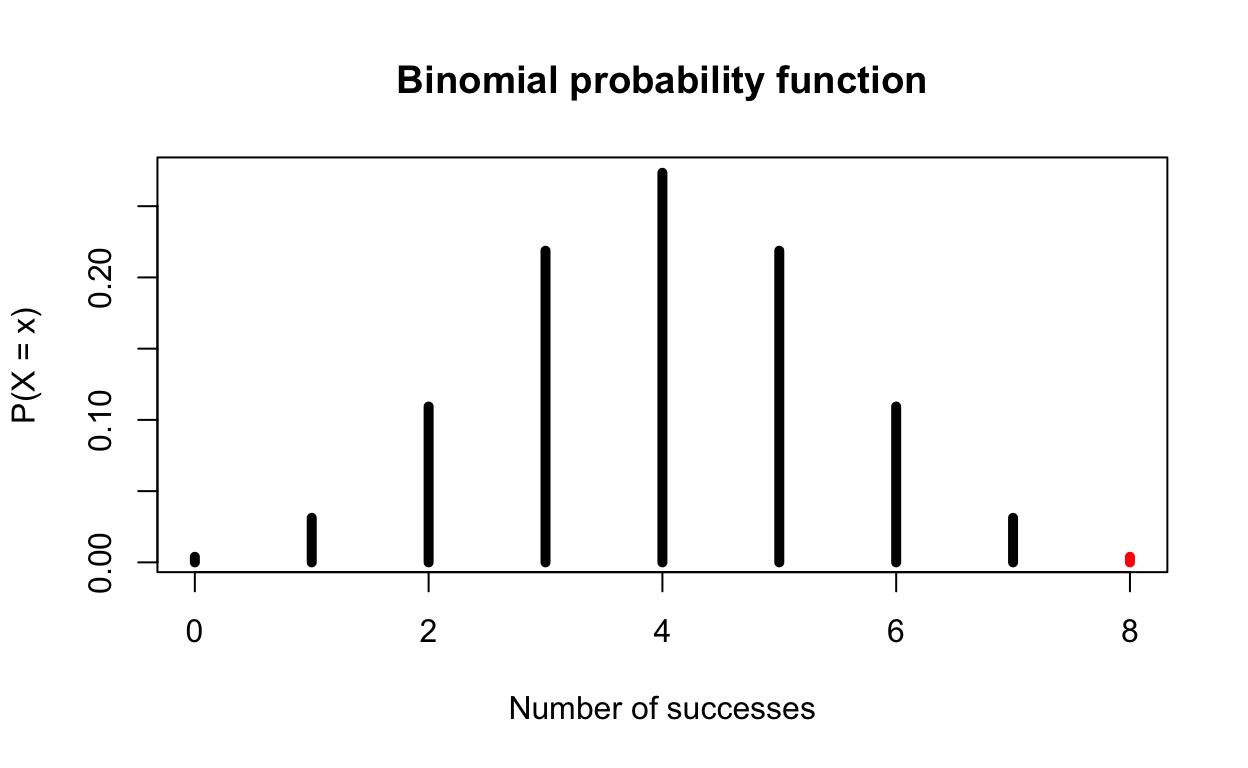
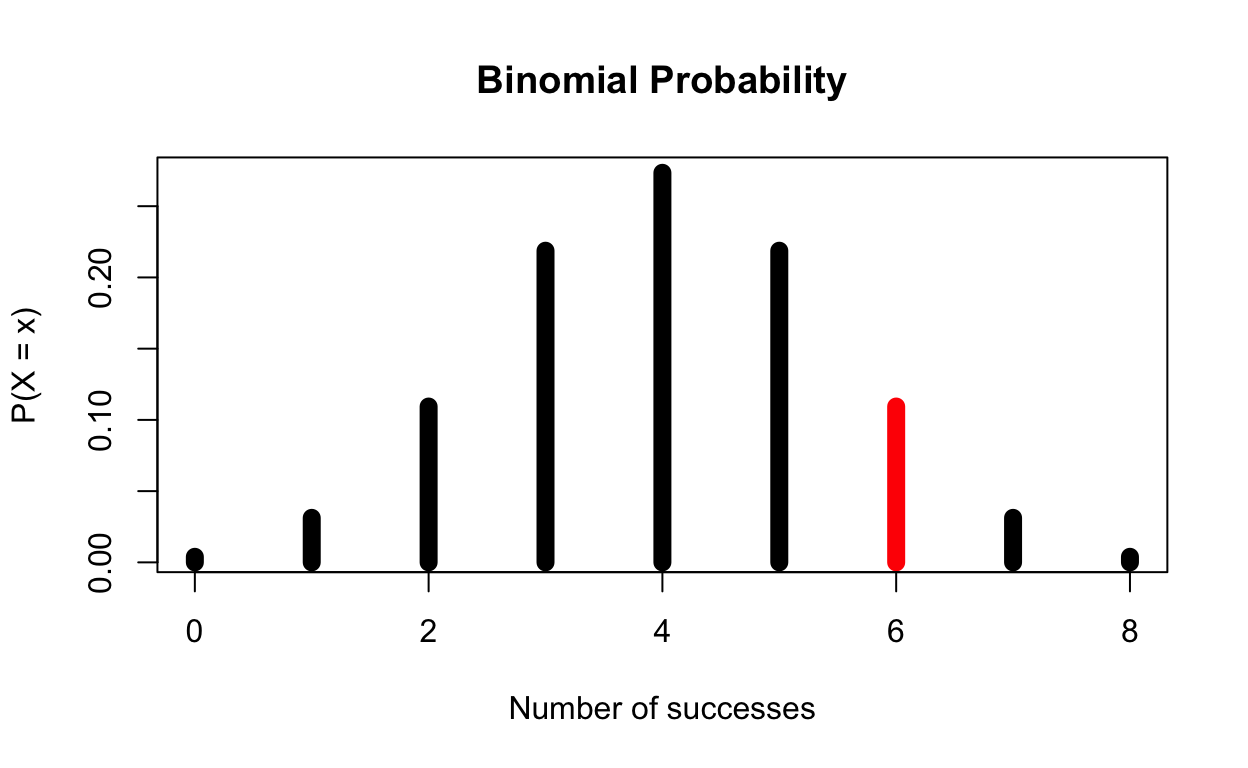
tea-tasting

diff --git a/_posts/Tea_Tasting/teatasting.html b/_posts/Tea_Tasting/teatasting.html
@@ -114,7 +114,7 @@ code span.wa { color: #5e5e5e; font-style: italic; } /* Warning */
   <!--/radix_placeholder_rmarkdown_metadata-->
   
   <script type="text/json" id="radix-resource-manifest">
-  {"type":"character","attributes":{},"value":["teatasting_files/anchor-4.2.2/anchor.min.js","teatasting_files/bowser-1.9.3/bowser.min.js","teatasting_files/distill-2.2.21/template.v2.js","teatasting_files/figure-html5/unnamed-chunk-1-1.png","teatasting_files/figure-html5/unnamed-chunk-2-1.png","teatasting_files/figure-html5/unnamed-chunk-3-1.png","teatasting_files/figure-html5/unnamed-chunk-4-1.png","teatasting_files/figure-html5/unnamed-chunk-5-1.png","teatasting_files/figure-html5/unnamed-chunk-6-1.png","teatasting_files/jquery-3.6.0/jquery-3.6.0.js","teatasting_files/jquery-3.6.0/jquery-3.6.0.min.js","teatasting_files/jquery-3.6.0/jquery-3.6.0.min.map","teatasting_files/popper-2.6.0/popper.min.js","teatasting_files/tippy-6.2.7/tippy-bundle.umd.min.js","teatasting_files/tippy-6.2.7/tippy-light-border.css","teatasting_files/tippy-6.2.7/tippy.css","teatasting_files/tippy-6.2.7/tippy.umd.min.js","teatasting_files/webcomponents-2.0.0/webcomponents.js"]}
+  {"type":"character","attributes":{},"value":["teatasting_files/anchor-4.2.2/anchor.min.js","teatasting_files/bowser-1.9.3/bowser.min.js","teatasting_files/distill-2.2.21/template.v2.js","teatasting_files/figure-html5/unnamed-chunk-1-1.png","teatasting_files/figure-html5/unnamed-chunk-10-1.png","teatasting_files/figure-html5/unnamed-chunk-2-1.png","teatasting_files/figure-html5/unnamed-chunk-3-1.png","teatasting_files/figure-html5/unnamed-chunk-4-1.png","teatasting_files/figure-html5/unnamed-chunk-5-1.png","teatasting_files/figure-html5/unnamed-chunk-6-1.png","teatasting_files/figure-html5/unnamed-chunk-7-1.png","teatasting_files/figure-html5/unnamed-chunk-9-1.png","teatasting_files/jquery-3.6.0/jquery-3.6.0.js","teatasting_files/jquery-3.6.0/jquery-3.6.0.min.js","teatasting_files/jquery-3.6.0/jquery-3.6.0.min.map","teatasting_files/popper-2.6.0/popper.min.js","teatasting_files/tippy-6.2.7/tippy-bundle.umd.min.js","teatasting_files/tippy-6.2.7/tippy-light-border.css","teatasting_files/tippy-6.2.7/tippy.css","teatasting_files/tippy-6.2.7/tippy.umd.min.js","teatasting_files/webcomponents-2.0.0/webcomponents.js"]}
   </script>
   <!--radix_placeholder_navigation_in_header-->
   <!--/radix_placeholder_navigation_in_header-->
@@ -1476,7 +1476,6 @@ code span.wa { color: #5e5e5e; font-style: italic; } /* Warning */
 <center>
 <p><img src="../../images/Lady_Tea.png" style="width:50.0%;height:50.0%" /></p>
 </center>
-<p>#<a href="https://wiki.uio.no/projects/clsi/images/6/65/3BasicStatisticalTestingInR-2014-2.pdf" class="uri">https://wiki.uio.no/projects/clsi/images/6/65/3BasicStatisticalTestingInR-2014-2.pdf</a></p>
 <h1 id="background"><strong>Background</strong></h1>
 <p>One of the first fathers’ of statistics was named Ronald Fisher. He is widely known for his research in statistic methods and design of experiments. In one of his books, he gives a lesson on probability and statistics; which according to some sources, was based on a true event.</p>
 <p>On a calm, pleasant day at a cafe, an argument broke out between a lady and a waiter. The lady was very upset with her order of tea, which consisted only of milk and tea. Now, little history about tea, during this time period it was common practice to pour tea first and then milk. Well, our customer lady was upset because she claimed that the tea that given was made in the wrong order - (milk then tea).</p>
@@ -1503,12 +1502,12 @@ H_a (alternative): \text{Lady can distingish the two different types}
 <center>
 <h2 id="cups-correct"><strong>6 Cups Correct</strong></h2>
 </center>
-<p>To calculate the p-values of getting 6-8 cups corrects, we are going to do the following:</p>
+<p>To calculate the p-values of getting 6 cups corrects, we are going to do the following:</p>
 <p><span class="math display">\[
-\text{P(X} \ge 6| H_0 = \text{true)}\\ 
-\text{= P(X = 6| p = 0.5) + P(X = 7| p = 0.5) + P(X = 8| p = 0.5)}
+\text{P(X} &gt; 6| H_0 = \text{true)}\
+\text{= P(X = 6| p = 0.5)}
 \]</span></p>
-<p>The following graph helps us visualize what that this math looks like. It is done by drawing out a Binomial Distribution and then highlighting the areas we are intesesting to solving. The equation to that math is:</p>
+<p>The following graph helps us visualize what that this math looks like. It is done by drawing out a Binomial Distribution and then highlighting the areas we are intesesting in solving. The equation to this math is:</p>
 <p><span class="math display">\[
 P(X=x) = \binom{8}{x}  p^x(1-p)^{8-x}
 \]</span></p>
@@ -1516,57 +1515,77 @@ P(X=x) = \binom{8}{x}  p^x(1-p)^{8-x}
 <div class="layout-chunk" data-layout="l-body">
 <div class="sourceCode">
 <pre class="sourceCode r"><code class="sourceCode r"><span class='va'>pp</span> <span class='op'>=</span> <span class='op'>(</span><span class='fu'><a href='https://rdrr.io/r/graphics/plot.html'>plot</a></span><span class='op'>(</span><span class='fl'>0</span><span class='op'>:</span><span class='fl'>8</span>, <span class='fu'><a href='https://rdrr.io/r/stats/Binomial.html'>dbinom</a></span><span class='op'>(</span><span class='fl'>0</span><span class='op'>:</span><span class='fl'>8</span>, <span class='fl'>8</span>, <span class='fl'>0.5</span><span class='op'>)</span>, type <span class='op'>=</span> <span class='st'>'h'</span>,
-     lwd <span class='op'>=</span> <span class='fl'>5</span>,col <span class='op'>=</span> <span class='fu'><a href='https://rdrr.io/r/base/c.html'>c</a></span><span class='op'>(</span><span class='fu'><a href='https://rdrr.io/r/base/rep.html'>rep</a></span><span class='op'>(</span><span class='fl'>1</span>,<span class='fl'>6</span><span class='op'>)</span>, 
-                     <span class='fu'><a href='https://rdrr.io/r/base/rep.html'>rep</a></span><span class='op'>(</span><span class='fl'>2</span>,<span class='fl'>3</span><span class='op'>)</span><span class='op'>)</span>, 
-     main <span class='op'>=</span> <span class='st'>"Binomial probability function"</span>,
+     lwd <span class='op'>=</span> <span class='fl'>9</span>,col <span class='op'>=</span> <span class='fu'><a href='https://rdrr.io/r/base/c.html'>c</a></span><span class='op'>(</span><span class='fu'><a href='https://rdrr.io/r/base/rep.html'>rep</a></span><span class='op'>(</span><span class='fl'>1</span>,<span class='fl'>6</span><span class='op'>)</span>, 
+                     <span class='fu'><a href='https://rdrr.io/r/base/rep.html'>rep</a></span><span class='op'>(</span><span class='fl'>2</span><span class='op'>)</span><span class='op'>)</span>, 
+     main <span class='op'>=</span> <span class='st'>"Binomial Probability"</span>,
      ylab <span class='op'>=</span> <span class='st'>"P(X = x)"</span>, xlab <span class='op'>=</span> <span class='st'>"Number of successes"</span><span class='op'>)</span><span class='op'>)</span>
 </code></pre>
 </div>
-<p><img src="teatasting_files/figure-html5/unnamed-chunk-2-1.png" width="624" /></p>
+<p><img src="teatasting_files/figure-html5/unnamed-chunk-3-1.png" width="624" /></p>
 </div>
-<p>The p-value for 6-8 success is:</p>
-<p>Now, at the beginning of this test, we decided we wanted an alpha of 0.05. Well, 0.1445 &gt; 0.05, which means if the lady was only able to identify 6 of the cups correctly, we would fail to reject the null hypothesis, meaning we do not believe she can taste the difference.</p>
+<p>The p-value for 6 successes is:</p>
+<p>Now, at the beginning of this test, we decided we wanted an alpha of 0.05. Well, 0.1094 &gt; 0.05, which means if the lady was only able to identify 6 of the cups correctly, we would fail to reject the null hypothesis, meaning we do not believe she can taste the difference.</p>
 <center>
 <h2 id="cups-correct-1"><strong>7 Cups Correct</strong></h2>
 </center>
+<p><span class="math display">\[
+\text{P(X} &gt; 7| H_0 = \text{true)}\
+\text{= P(X = 7| p = 0.5)}
+\]</span></p>
 <div class="layout-chunk" data-layout="l-body">
 <div class="sourceCode">
 <pre class="sourceCode r"><code class="sourceCode r"><span class='fu'><a href='https://rdrr.io/r/graphics/plot.html'>plot</a></span><span class='op'>(</span><span class='fl'>0</span><span class='op'>:</span><span class='fl'>8</span>, <span class='fu'><a href='https://rdrr.io/r/stats/Binomial.html'>dbinom</a></span><span class='op'>(</span><span class='fl'>0</span><span class='op'>:</span><span class='fl'>8</span>, <span class='fl'>8</span>, <span class='fl'>0.5</span><span class='op'>)</span>, type <span class='op'>=</span> <span class='st'>'h'</span>,
-     lwd <span class='op'>=</span> <span class='fl'>5</span>,col <span class='op'>=</span> <span class='fu'><a href='https://rdrr.io/r/base/c.html'>c</a></span><span class='op'>(</span><span class='fu'><a href='https://rdrr.io/r/base/rep.html'>rep</a></span><span class='op'>(</span><span class='fl'>1</span>,<span class='fl'>7</span><span class='op'>)</span>,
-                     <span class='fu'><a href='https://rdrr.io/r/base/rep.html'>rep</a></span><span class='op'>(</span><span class='fl'>2</span>,<span class='fl'>3</span><span class='op'>)</span><span class='op'>)</span>,
-     main <span class='op'>=</span> <span class='st'>"Binomial probability function"</span>,
+     lwd <span class='op'>=</span> <span class='fl'>9</span>,col <span class='op'>=</span> <span class='fu'><a href='https://rdrr.io/r/base/c.html'>c</a></span><span class='op'>(</span><span class='fu'><a href='https://rdrr.io/r/base/rep.html'>rep</a></span><span class='op'>(</span><span class='fl'>1</span>,<span class='fl'>7</span><span class='op'>)</span>, <span class='fu'><a href='https://rdrr.io/r/base/rep.html'>rep</a></span><span class='op'>(</span><span class='fl'>2</span><span class='op'>)</span><span class='op'>)</span>,
+     main <span class='op'>=</span> <span class='st'>"Binomial Probability"</span>,
      ylab <span class='op'>=</span> <span class='st'>"P(X = x)"</span>, xlab <span class='op'>=</span> <span class='st'>"Number of successes"</span><span class='op'>)</span>
 </code></pre>
 </div>
-<p><img src="teatasting_files/figure-html5/unnamed-chunk-4-1.png" width="624" /></p>
+<p><img src="teatasting_files/figure-html5/unnamed-chunk-5-1.png" width="624" /></p>
 </div>
-<div class="layout-chunk" data-layout="l-body">
-<div class="sourceCode">
-<pre class="sourceCode r"><code class="sourceCode r"><span class='fu'><a href='https://rdrr.io/r/base/sum.html'>sum</a></span><span class='op'>(</span><span class='fu'><a href='https://rdrr.io/r/stats/Binomial.html'>dbinom</a></span><span class='op'>(</span><span class='fl'>7</span><span class='op'>:</span><span class='fl'>8</span>,<span class='fl'>8</span>,<span class='fl'>0.5</span><span class='op'>)</span><span class='op'>)</span>
-</code></pre>
-</div>
-<pre><code>[1] 0.03515625</code></pre>
-</div>
+<p>The p-value for 7 Cups Correct is 0.03125, and 0.03125 &lt; 0.05. This means that if she were to successfully identify 7 of the 8 cups correctly, we would have sufficient evidence to suggest that she can indeed taste the difference between Tea Types.</p>
 <center>
 <h2 id="cups-correct-2"><strong>8 Cups Correct</strong></h2>
 </center>
+<p><span class="math display">\[
+\text{P(X} &gt; 8| H_0 = \text{true)}\
+\text{= P(X = 8| p = 0.5)}
+\]</span></p>
 <div class="layout-chunk" data-layout="l-body">
 <div class="sourceCode">
 <pre class="sourceCode r"><code class="sourceCode r"><span class='fu'><a href='https://rdrr.io/r/graphics/plot.html'>plot</a></span><span class='op'>(</span><span class='fl'>0</span><span class='op'>:</span><span class='fl'>8</span>, <span class='fu'><a href='https://rdrr.io/r/stats/Binomial.html'>dbinom</a></span><span class='op'>(</span><span class='fl'>0</span><span class='op'>:</span><span class='fl'>8</span>, <span class='fl'>8</span>, <span class='fl'>0.5</span><span class='op'>)</span>, type <span class='op'>=</span> <span class='st'>'h'</span>,
-     lwd <span class='op'>=</span> <span class='fl'>5</span>,col <span class='op'>=</span> <span class='fu'><a href='https://rdrr.io/r/base/c.html'>c</a></span><span class='op'>(</span><span class='fu'><a href='https://rdrr.io/r/base/rep.html'>rep</a></span><span class='op'>(</span><span class='fl'>1</span>,<span class='fl'>8</span><span class='op'>)</span>,
+     lwd <span class='op'>=</span> <span class='fl'>9</span>,col <span class='op'>=</span> <span class='fu'><a href='https://rdrr.io/r/base/c.html'>c</a></span><span class='op'>(</span><span class='fu'><a href='https://rdrr.io/r/base/rep.html'>rep</a></span><span class='op'>(</span><span class='fl'>1</span>,<span class='fl'>8</span><span class='op'>)</span>,
                      <span class='fu'><a href='https://rdrr.io/r/base/rep.html'>rep</a></span><span class='op'>(</span><span class='fl'>2</span>,<span class='fl'>3</span><span class='op'>)</span><span class='op'>)</span>,
-     main <span class='op'>=</span> <span class='st'>"Binomial probability function"</span>,
+    main <span class='op'>=</span> <span class='st'>"Binomial Probability"</span>,
      ylab <span class='op'>=</span> <span class='st'>"P(X = x)"</span>, xlab <span class='op'>=</span> <span class='st'>"Number of successes"</span><span class='op'>)</span>
 </code></pre>
 </div>
-<img src="teatasting_files/figure-html5/unnamed-chunk-6-1.png" width="624" />
+<p><img src="teatasting_files/figure-html5/unnamed-chunk-7-1.png" width="624" /></p>
+</div>
+<p>And lastly, we have if she were to identify all 8 cups correctly, her value would be 0.003906, which is &lt; 0.05. With this value, we can say we evidence to suggest that the lady can indeed taste the difference between teh two types of tea.</p>
+<div class="layout-chunk" data-layout="l-body">
 <div class="sourceCode">
-<pre class="sourceCode r"><code class="sourceCode r"><span class='fu'><a href='https://rdrr.io/r/base/sum.html'>sum</a></span><span class='op'>(</span><span class='fu'><a href='https://rdrr.io/r/stats/Binomial.html'>dbinom</a></span><span class='op'>(</span><span class='fl'>8</span>,<span class='fl'>8</span>,<span class='fl'>0.5</span><span class='op'>)</span><span class='op'>)</span>
+<pre class="sourceCode r"><code class="sourceCode r"><span class='fu'><a href='https://rdrr.io/r/base/data.frame.html'>data.frame</a></span><span class='op'>(</span>heads <span class='op'>=</span> <span class='fl'>0</span><span class='op'>:</span><span class='fl'>8</span>, 
+           pmf <span class='op'>=</span> <span class='fu'><a href='https://rdrr.io/r/stats/Binomial.html'>dbinom</a></span><span class='op'>(</span>x <span class='op'>=</span> <span class='fl'>0</span><span class='op'>:</span><span class='fl'>8</span>, size <span class='op'>=</span> <span class='fl'>8</span>, prob <span class='op'>=</span> <span class='fl'>0.5</span><span class='op'>)</span><span class='op'>)</span> <span class='op'>%&gt;%</span>
+<span class='fu'>ggplot</span><span class='op'>(</span><span class='fu'>aes</span><span class='op'>(</span>x <span class='op'>=</span> <span class='fu'><a href='https://rdrr.io/r/base/factor.html'>factor</a></span><span class='op'>(</span><span class='va'>heads</span><span class='op'>)</span>, y <span class='op'>=</span> <span class='va'>pmf</span>, fill <span class='op'>=</span> <span class='fu'><a href='https://rdrr.io/r/base/factor.html'>factor</a></span><span class='op'>(</span><span class='va'>pmf</span><span class='op'>)</span><span class='op'>)</span><span class='op'>)</span> <span class='op'>+</span>
+  <span class='fu'>geom_col</span><span class='op'>(</span><span class='op'>)</span> <span class='op'>+</span>
+  <span class='fu'>geom_text</span><span class='op'>(</span>
+    <span class='fu'>aes</span><span class='op'>(</span>label <span class='op'>=</span> <span class='fu'><a href='https://rdrr.io/r/base/Round.html'>round</a></span><span class='op'>(</span><span class='va'>pmf</span>,<span class='fl'>3</span><span class='op'>)</span>, y <span class='op'>=</span> <span class='va'>pmf</span> <span class='op'>+</span> <span class='fl'>0.01</span><span class='op'>)</span>,
+    position <span class='op'>=</span> <span class='fu'>position_dodge</span><span class='op'>(</span><span class='fl'>0.9</span><span class='op'>)</span>,
+    size <span class='op'>=</span> <span class='fl'>3</span>,
+    vjust <span class='op'>=</span> <span class='fl'>0</span>
+  <span class='op'>)</span> <span class='op'>+</span>
+  <span class='fu'>labs</span><span class='op'>(</span>title <span class='op'>=</span> <span class='st'>"Probability of X = x successes."</span>,
+       x <span class='op'>=</span> <span class='st'>"Successes (x)"</span>,
+       y <span class='op'>=</span> <span class='st'>"Probability"</span><span class='op'>)</span> <span class='op'>+</span>
+  <span class='fu'>theme_bw</span><span class='op'>(</span><span class='op'>)</span> <span class='op'>+</span> 
+  <span class='fu'>theme</span><span class='op'>(</span>legend.position <span class='op'>=</span> <span class='st'>"none"</span><span class='op'>)</span> <span class='op'>+</span> <span class='fu'>scale_fill_brewer</span><span class='op'>(</span>palette <span class='op'>=</span> <span class='st'>"Dark1"</span><span class='op'>)</span> <span class='op'>+</span>
+  <span class='fu'>theme</span><span class='op'>(</span>plot.title <span class='op'>=</span> <span class='fu'>element_text</span><span class='op'>(</span>
+    hjust <span class='op'>=</span> <span class='fl'>0.5</span>, face <span class='op'>=</span> <span class='st'>"bold"</span>, size <span class='op'>=</span> <span class='fl'>20</span><span class='op'>)</span><span class='op'>)</span>
 </code></pre>
 </div>
-<pre><code>[1] 0.00390625</code></pre>
+<p><img src="teatasting_files/figure-html5/unnamed-chunk-9-1.png" width="624" /></p>
 </div>
-<div class="sourceCode" id="cb3"><pre class="sourceCode r distill-force-highlighting-css"><code class="sourceCode r"></code></pre></div>
+<div class="sourceCode" id="cb1"><pre class="sourceCode r distill-force-highlighting-css"><code class="sourceCode r"></code></pre></div>
 <!--radix_placeholder_article_footer-->
 <!--/radix_placeholder_article_footer-->
 </div>

diff --git a/docs/posts/Tea_Tasting/index.html b/docs/posts/Tea_Tasting/index.html
@@ -115,7 +115,7 @@ code span.wa { color: #5e5e5e; font-style: italic; } /* Warning */
 <!--/radix_placeholder_rmarkdown_metadata-->
   
   <script type="text/json" id="radix-resource-manifest">
-  {"type":"character","attributes":{},"value":["teatasting_files/anchor-4.2.2/anchor.min.js","teatasting_files/bowser-1.9.3/bowser.min.js","teatasting_files/distill-2.2.21/template.v2.js","teatasting_files/figure-html5/unnamed-chunk-1-1.png","teatasting_files/figure-html5/unnamed-chunk-2-1.png","teatasting_files/figure-html5/unnamed-chunk-3-1.png","teatasting_files/figure-html5/unnamed-chunk-4-1.png","teatasting_files/figure-html5/unnamed-chunk-5-1.png","teatasting_files/figure-html5/unnamed-chunk-6-1.png","teatasting_files/jquery-3.6.0/jquery-3.6.0.js","teatasting_files/jquery-3.6.0/jquery-3.6.0.min.js","teatasting_files/jquery-3.6.0/jquery-3.6.0.min.map","teatasting_files/popper-2.6.0/popper.min.js","teatasting_files/tippy-6.2.7/tippy-bundle.umd.min.js","teatasting_files/tippy-6.2.7/tippy-light-border.css","teatasting_files/tippy-6.2.7/tippy.css","teatasting_files/tippy-6.2.7/tippy.umd.min.js","teatasting_files/webcomponents-2.0.0/webcomponents.js"]}
+  {"type":"character","attributes":{},"value":["teatasting_files/anchor-4.2.2/anchor.min.js","teatasting_files/bowser-1.9.3/bowser.min.js","teatasting_files/distill-2.2.21/template.v2.js","teatasting_files/figure-html5/unnamed-chunk-1-1.png","teatasting_files/figure-html5/unnamed-chunk-10-1.png","teatasting_files/figure-html5/unnamed-chunk-2-1.png","teatasting_files/figure-html5/unnamed-chunk-3-1.png","teatasting_files/figure-html5/unnamed-chunk-4-1.png","teatasting_files/figure-html5/unnamed-chunk-5-1.png","teatasting_files/figure-html5/unnamed-chunk-6-1.png","teatasting_files/figure-html5/unnamed-chunk-7-1.png","teatasting_files/figure-html5/unnamed-chunk-9-1.png","teatasting_files/jquery-3.6.0/jquery-3.6.0.js","teatasting_files/jquery-3.6.0/jquery-3.6.0.min.js","teatasting_files/jquery-3.6.0/jquery-3.6.0.min.map","teatasting_files/popper-2.6.0/popper.min.js","teatasting_files/tippy-6.2.7/tippy-bundle.umd.min.js","teatasting_files/tippy-6.2.7/tippy-light-border.css","teatasting_files/tippy-6.2.7/tippy.css","teatasting_files/tippy-6.2.7/tippy.umd.min.js","teatasting_files/webcomponents-2.0.0/webcomponents.js"]}
   </script>
   <!--radix_placeholder_navigation_in_header-->
 <meta name="distill:offset" content="../.."/>
@@ -2096,7 +2096,6 @@ document.addEventListener('DOMContentLoaded', function() {
 <center>
 <p><img src="../../images/Lady_Tea.png" style="width:50.0%;height:50.0%" /></p>
 </center>
-<p>#<a href="https://wiki.uio.no/projects/clsi/images/6/65/3BasicStatisticalTestingInR-2014-2.pdf" class="uri">https://wiki.uio.no/projects/clsi/images/6/65/3BasicStatisticalTestingInR-2014-2.pdf</a></p>
 <h1 id="background"><strong>Background</strong></h1>
 <p>One of the first fathers’ of statistics was named Ronald Fisher. He is widely known for his research in statistic methods and design of experiments. In one of his books, he gives a lesson on probability and statistics; which according to some sources, was based on a true event.</p>
 <p>On a calm, pleasant day at a cafe, an argument broke out between a lady and a waiter. The lady was very upset with her order of tea, which consisted only of milk and tea. Now, little history about tea, during this time period it was common practice to pour tea first and then milk. Well, our customer lady was upset because she claimed that the tea that given was made in the wrong order - (milk then tea).</p>
@@ -2123,12 +2122,12 @@ H_a (alternative): \text{Lady can distingish the two different types}
 <center>
 <h2 id="cups-correct"><strong>6 Cups Correct</strong></h2>
 </center>
-<p>To calculate the p-values of getting 6-8 cups corrects, we are going to do the following:</p>
+<p>To calculate the p-values of getting 6 cups corrects, we are going to do the following:</p>
 <p><span class="math display">\[
-\text{P(X} \ge 6| H_0 = \text{true)}\\ 
-\text{= P(X = 6| p = 0.5) + P(X = 7| p = 0.5) + P(X = 8| p = 0.5)}
+\text{P(X} &gt; 6| H_0 = \text{true)}\
+\text{= P(X = 6| p = 0.5)}
 \]</span></p>
-<p>The following graph helps us visualize what that this math looks like. It is done by drawing out a Binomial Distribution and then highlighting the areas we are intesesting to solving. The equation to that math is:</p>
+<p>The following graph helps us visualize what that this math looks like. It is done by drawing out a Binomial Distribution and then highlighting the areas we are intesesting in solving. The equation to this math is:</p>
 <p><span class="math display">\[
 P(X=x) = \binom{8}{x}  p^x(1-p)^{8-x}
 \]</span></p>
@@ -2136,57 +2135,77 @@ P(X=x) = \binom{8}{x}  p^x(1-p)^{8-x}
 <div class="layout-chunk" data-layout="l-body">
 <div class="sourceCode">
 <pre class="sourceCode r"><code class="sourceCode r"><span class='va'>pp</span> <span class='op'>=</span> <span class='op'>(</span><span class='fu'><a href='https://rdrr.io/r/graphics/plot.html'>plot</a></span><span class='op'>(</span><span class='fl'>0</span><span class='op'>:</span><span class='fl'>8</span>, <span class='fu'><a href='https://rdrr.io/r/stats/Binomial.html'>dbinom</a></span><span class='op'>(</span><span class='fl'>0</span><span class='op'>:</span><span class='fl'>8</span>, <span class='fl'>8</span>, <span class='fl'>0.5</span><span class='op'>)</span>, type <span class='op'>=</span> <span class='st'>'h'</span>,
-     lwd <span class='op'>=</span> <span class='fl'>5</span>,col <span class='op'>=</span> <span class='fu'><a href='https://rdrr.io/r/base/c.html'>c</a></span><span class='op'>(</span><span class='fu'><a href='https://rdrr.io/r/base/rep.html'>rep</a></span><span class='op'>(</span><span class='fl'>1</span>,<span class='fl'>6</span><span class='op'>)</span>, 
-                     <span class='fu'><a href='https://rdrr.io/r/base/rep.html'>rep</a></span><span class='op'>(</span><span class='fl'>2</span>,<span class='fl'>3</span><span class='op'>)</span><span class='op'>)</span>, 
-     main <span class='op'>=</span> <span class='st'>"Binomial probability function"</span>,
+     lwd <span class='op'>=</span> <span class='fl'>9</span>,col <span class='op'>=</span> <span class='fu'><a href='https://rdrr.io/r/base/c.html'>c</a></span><span class='op'>(</span><span class='fu'><a href='https://rdrr.io/r/base/rep.html'>rep</a></span><span class='op'>(</span><span class='fl'>1</span>,<span class='fl'>6</span><span class='op'>)</span>, 
+                     <span class='fu'><a href='https://rdrr.io/r/base/rep.html'>rep</a></span><span class='op'>(</span><span class='fl'>2</span><span class='op'>)</span><span class='op'>)</span>, 
+     main <span class='op'>=</span> <span class='st'>"Binomial Probability"</span>,
      ylab <span class='op'>=</span> <span class='st'>"P(X = x)"</span>, xlab <span class='op'>=</span> <span class='st'>"Number of successes"</span><span class='op'>)</span><span class='op'>)</span>
 </code></pre>
 </div>
-<p><img src="teatasting_files/figure-html5/unnamed-chunk-2-1.png" width="624" /></p>
+<p><img src="teatasting_files/figure-html5/unnamed-chunk-3-1.png" width="624" /></p>
 </div>
-<p>The p-value for 6-8 success is:</p>
-<p>Now, at the beginning of this test, we decided we wanted an alpha of 0.05. Well, 0.1445 &gt; 0.05, which means if the lady was only able to identify 6 of the cups correctly, we would fail to reject the null hypothesis, meaning we do not believe she can taste the difference.</p>
+<p>The p-value for 6 successes is:</p>
+<p>Now, at the beginning of this test, we decided we wanted an alpha of 0.05. Well, 0.1094 &gt; 0.05, which means if the lady was only able to identify 6 of the cups correctly, we would fail to reject the null hypothesis, meaning we do not believe she can taste the difference.</p>
 <center>
 <h2 id="cups-correct-1"><strong>7 Cups Correct</strong></h2>
 </center>
+<p><span class="math display">\[
+\text{P(X} &gt; 7| H_0 = \text{true)}\
+\text{= P(X = 7| p = 0.5)}
+\]</span></p>
 <div class="layout-chunk" data-layout="l-body">
 <div class="sourceCode">
 <pre class="sourceCode r"><code class="sourceCode r"><span class='fu'><a href='https://rdrr.io/r/graphics/plot.html'>plot</a></span><span class='op'>(</span><span class='fl'>0</span><span class='op'>:</span><span class='fl'>8</span>, <span class='fu'><a href='https://rdrr.io/r/stats/Binomial.html'>dbinom</a></span><span class='op'>(</span><span class='fl'>0</span><span class='op'>:</span><span class='fl'>8</span>, <span class='fl'>8</span>, <span class='fl'>0.5</span><span class='op'>)</span>, type <span class='op'>=</span> <span class='st'>'h'</span>,
-     lwd <span class='op'>=</span> <span class='fl'>5</span>,col <span class='op'>=</span> <span class='fu'><a href='https://rdrr.io/r/base/c.html'>c</a></span><span class='op'>(</span><span class='fu'><a href='https://rdrr.io/r/base/rep.html'>rep</a></span><span class='op'>(</span><span class='fl'>1</span>,<span class='fl'>7</span><span class='op'>)</span>,
-                     <span class='fu'><a href='https://rdrr.io/r/base/rep.html'>rep</a></span><span class='op'>(</span><span class='fl'>2</span>,<span class='fl'>3</span><span class='op'>)</span><span class='op'>)</span>,
-     main <span class='op'>=</span> <span class='st'>"Binomial probability function"</span>,
+     lwd <span class='op'>=</span> <span class='fl'>9</span>,col <span class='op'>=</span> <span class='fu'><a href='https://rdrr.io/r/base/c.html'>c</a></span><span class='op'>(</span><span class='fu'><a href='https://rdrr.io/r/base/rep.html'>rep</a></span><span class='op'>(</span><span class='fl'>1</span>,<span class='fl'>7</span><span class='op'>)</span>, <span class='fu'><a href='https://rdrr.io/r/base/rep.html'>rep</a></span><span class='op'>(</span><span class='fl'>2</span><span class='op'>)</span><span class='op'>)</span>,
+     main <span class='op'>=</span> <span class='st'>"Binomial Probability"</span>,
      ylab <span class='op'>=</span> <span class='st'>"P(X = x)"</span>, xlab <span class='op'>=</span> <span class='st'>"Number of successes"</span><span class='op'>)</span>
 </code></pre>
 </div>
-<p><img src="teatasting_files/figure-html5/unnamed-chunk-4-1.png" width="624" /></p>
+<p><img src="teatasting_files/figure-html5/unnamed-chunk-5-1.png" width="624" /></p>
 </div>
-<div class="layout-chunk" data-layout="l-body">
-<div class="sourceCode">
-<pre class="sourceCode r"><code class="sourceCode r"><span class='fu'><a href='https://rdrr.io/r/base/sum.html'>sum</a></span><span class='op'>(</span><span class='fu'><a href='https://rdrr.io/r/stats/Binomial.html'>dbinom</a></span><span class='op'>(</span><span class='fl'>7</span><span class='op'>:</span><span class='fl'>8</span>,<span class='fl'>8</span>,<span class='fl'>0.5</span><span class='op'>)</span><span class='op'>)</span>
-</code></pre>
-</div>
-<pre><code>[1] 0.03515625</code></pre>
-</div>
+<p>The p-value for 7 Cups Correct is 0.03125, and 0.03125 &lt; 0.05. This means that if she were to successfully identify 7 of the 8 cups correctly, we would have sufficient evidence to suggest that she can indeed taste the difference between Tea Types.</p>
 <center>
 <h2 id="cups-correct-2"><strong>8 Cups Correct</strong></h2>
 </center>
+<p><span class="math display">\[
+\text{P(X} &gt; 8| H_0 = \text{true)}\
+\text{= P(X = 8| p = 0.5)}
+\]</span></p>
 <div class="layout-chunk" data-layout="l-body">
 <div class="sourceCode">
 <pre class="sourceCode r"><code class="sourceCode r"><span class='fu'><a href='https://rdrr.io/r/graphics/plot.html'>plot</a></span><span class='op'>(</span><span class='fl'>0</span><span class='op'>:</span><span class='fl'>8</span>, <span class='fu'><a href='https://rdrr.io/r/stats/Binomial.html'>dbinom</a></span><span class='op'>(</span><span class='fl'>0</span><span class='op'>:</span><span class='fl'>8</span>, <span class='fl'>8</span>, <span class='fl'>0.5</span><span class='op'>)</span>, type <span class='op'>=</span> <span class='st'>'h'</span>,
-     lwd <span class='op'>=</span> <span class='fl'>5</span>,col <span class='op'>=</span> <span class='fu'><a href='https://rdrr.io/r/base/c.html'>c</a></span><span class='op'>(</span><span class='fu'><a href='https://rdrr.io/r/base/rep.html'>rep</a></span><span class='op'>(</span><span class='fl'>1</span>,<span class='fl'>8</span><span class='op'>)</span>,
+     lwd <span class='op'>=</span> <span class='fl'>9</span>,col <span class='op'>=</span> <span class='fu'><a href='https://rdrr.io/r/base/c.html'>c</a></span><span class='op'>(</span><span class='fu'><a href='https://rdrr.io/r/base/rep.html'>rep</a></span><span class='op'>(</span><span class='fl'>1</span>,<span class='fl'>8</span><span class='op'>)</span>,
                      <span class='fu'><a href='https://rdrr.io/r/base/rep.html'>rep</a></span><span class='op'>(</span><span class='fl'>2</span>,<span class='fl'>3</span><span class='op'>)</span><span class='op'>)</span>,
-     main <span class='op'>=</span> <span class='st'>"Binomial probability function"</span>,
+    main <span class='op'>=</span> <span class='st'>"Binomial Probability"</span>,
      ylab <span class='op'>=</span> <span class='st'>"P(X = x)"</span>, xlab <span class='op'>=</span> <span class='st'>"Number of successes"</span><span class='op'>)</span>
 </code></pre>
 </div>
-<img src="teatasting_files/figure-html5/unnamed-chunk-6-1.png" width="624" />
+<p><img src="teatasting_files/figure-html5/unnamed-chunk-7-1.png" width="624" /></p>
+</div>
+<p>And lastly, we have if she were to identify all 8 cups correctly, her value would be 0.003906, which is &lt; 0.05. With this value, we can say we evidence to suggest that the lady can indeed taste the difference between teh two types of tea.</p>
+<div class="layout-chunk" data-layout="l-body">
 <div class="sourceCode">
-<pre class="sourceCode r"><code class="sourceCode r"><span class='fu'><a href='https://rdrr.io/r/base/sum.html'>sum</a></span><span class='op'>(</span><span class='fu'><a href='https://rdrr.io/r/stats/Binomial.html'>dbinom</a></span><span class='op'>(</span><span class='fl'>8</span>,<span class='fl'>8</span>,<span class='fl'>0.5</span><span class='op'>)</span><span class='op'>)</span>
+<pre class="sourceCode r"><code class="sourceCode r"><span class='fu'><a href='https://rdrr.io/r/base/data.frame.html'>data.frame</a></span><span class='op'>(</span>heads <span class='op'>=</span> <span class='fl'>0</span><span class='op'>:</span><span class='fl'>8</span>, 
+           pmf <span class='op'>=</span> <span class='fu'><a href='https://rdrr.io/r/stats/Binomial.html'>dbinom</a></span><span class='op'>(</span>x <span class='op'>=</span> <span class='fl'>0</span><span class='op'>:</span><span class='fl'>8</span>, size <span class='op'>=</span> <span class='fl'>8</span>, prob <span class='op'>=</span> <span class='fl'>0.5</span><span class='op'>)</span><span class='op'>)</span> <span class='op'>%&gt;%</span>
+<span class='fu'>ggplot</span><span class='op'>(</span><span class='fu'>aes</span><span class='op'>(</span>x <span class='op'>=</span> <span class='fu'><a href='https://rdrr.io/r/base/factor.html'>factor</a></span><span class='op'>(</span><span class='va'>heads</span><span class='op'>)</span>, y <span class='op'>=</span> <span class='va'>pmf</span>, fill <span class='op'>=</span> <span class='fu'><a href='https://rdrr.io/r/base/factor.html'>factor</a></span><span class='op'>(</span><span class='va'>pmf</span><span class='op'>)</span><span class='op'>)</span><span class='op'>)</span> <span class='op'>+</span>
+  <span class='fu'>geom_col</span><span class='op'>(</span><span class='op'>)</span> <span class='op'>+</span>
+  <span class='fu'>geom_text</span><span class='op'>(</span>
+    <span class='fu'>aes</span><span class='op'>(</span>label <span class='op'>=</span> <span class='fu'><a href='https://rdrr.io/r/base/Round.html'>round</a></span><span class='op'>(</span><span class='va'>pmf</span>,<span class='fl'>3</span><span class='op'>)</span>, y <span class='op'>=</span> <span class='va'>pmf</span> <span class='op'>+</span> <span class='fl'>0.01</span><span class='op'>)</span>,
+    position <span class='op'>=</span> <span class='fu'>position_dodge</span><span class='op'>(</span><span class='fl'>0.9</span><span class='op'>)</span>,
+    size <span class='op'>=</span> <span class='fl'>3</span>,
+    vjust <span class='op'>=</span> <span class='fl'>0</span>
+  <span class='op'>)</span> <span class='op'>+</span>
+  <span class='fu'>labs</span><span class='op'>(</span>title <span class='op'>=</span> <span class='st'>"Probability of X = x successes."</span>,
+       x <span class='op'>=</span> <span class='st'>"Successes (x)"</span>,
+       y <span class='op'>=</span> <span class='st'>"Probability"</span><span class='op'>)</span> <span class='op'>+</span>
+  <span class='fu'>theme_bw</span><span class='op'>(</span><span class='op'>)</span> <span class='op'>+</span> 
+  <span class='fu'>theme</span><span class='op'>(</span>legend.position <span class='op'>=</span> <span class='st'>"none"</span><span class='op'>)</span> <span class='op'>+</span> <span class='fu'>scale_fill_brewer</span><span class='op'>(</span>palette <span class='op'>=</span> <span class='st'>"Dark1"</span><span class='op'>)</span> <span class='op'>+</span>
+  <span class='fu'>theme</span><span class='op'>(</span>plot.title <span class='op'>=</span> <span class='fu'>element_text</span><span class='op'>(</span>
+    hjust <span class='op'>=</span> <span class='fl'>0.5</span>, face <span class='op'>=</span> <span class='st'>"bold"</span>, size <span class='op'>=</span> <span class='fl'>20</span><span class='op'>)</span><span class='op'>)</span>
 </code></pre>
 </div>
-<pre><code>[1] 0.00390625</code></pre>
+<p><img src="teatasting_files/figure-html5/unnamed-chunk-9-1.png" width="624" /></p>
 </div>
-<div class="sourceCode" id="cb3"><pre class="sourceCode r distill-force-highlighting-css"><code class="sourceCode r"></code></pre></div>
+<div class="sourceCode" id="cb1"><pre class="sourceCode r distill-force-highlighting-css"><code class="sourceCode r"></code></pre></div>
 <!--radix_placeholder_article_footer-->
 <!--/radix_placeholder_article_footer-->
 </div>
